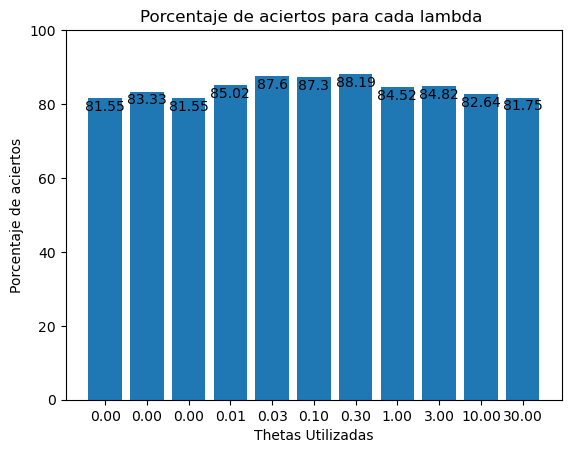
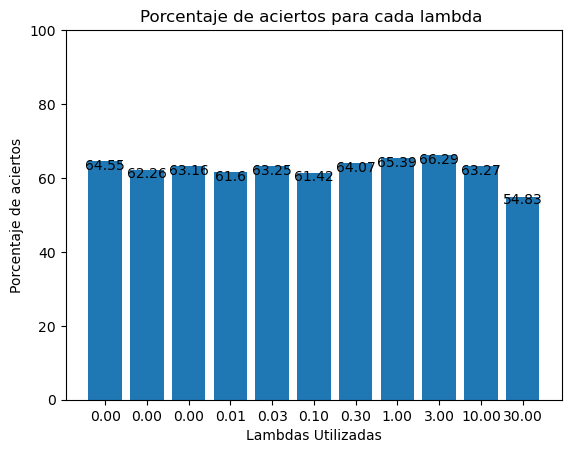
Errata solucionada

Changed region(s): [[0.1489, 0.1545, 0.9527, 0.4636], [0.4168, 0.9272, 0.6848, 0.989]]

diff --git a/ProyectoFinal/TrabajoFinal.py b/ProyectoFinal/TrabajoFinal.py
@@ -11,10 +11,10 @@ from sklearn.preprocessing import PolynomialFeatures
 
 
 MAX_LETRAS = 28
-NUM_LETRAS = 3
+NUM_LETRAS = 10
 FACTOR_DE_REBAJADO = 0.1
 NUM_ITERATIONS_CROSS_VALIDATION = 3
-TEST_CONFIGURATIONS = False
+TEST_CONFIGURATIONS = True
 
 def main():
     #Sacamos los datos de los ficheros
@@ -40,8 +40,8 @@ def main():
 
 
     #regresion_Logistica(X,Y,XTest,YTest)
-    #redes_neuronales(X,Y,XTest,YTest)
-    SupportVectorMachinesMasIteraciones(X,Y,XTest,YTest)
+    redes_neuronales(X,Y,XTest,YTest)
+    #SupportVectorMachinesMasIteraciones(X,Y,XTest,YTest)
 
 
 
@@ -180,7 +180,7 @@ def GenerarGraficaLambdasPorcentajes(thetasUtilizadas,porcSacados):
     autolabel(bar_plot)
     plt.ylim(0,100)
     plt.title('Porcentaje de aciertos para cada lambda ')
-    plt.xlabel("Thetas Utilizadas")
+    plt.xlabel("Lambdas Utilizadas")
     plt.ylabel("Porcentaje de aciertos")
     plt.savefig("add_text_bar_matplotlib_01.png", bbox_inches='tight')
     plt.show()
@@ -301,7 +301,6 @@ def redes_neuronales(X,Y,XTest,YTest):
 
         #Mediante validacion cruzada vamos a analizar todas las lambdas para obtener la mejor
         for lambdaActual in valoresLambda:
-
             #Para cada lambda entreno y valido con 3 conjuntos de entrenamiento y
             #validacion distintos
             for veces in range(NUM_ITERATIONS_CROSS_VALIDATION):
